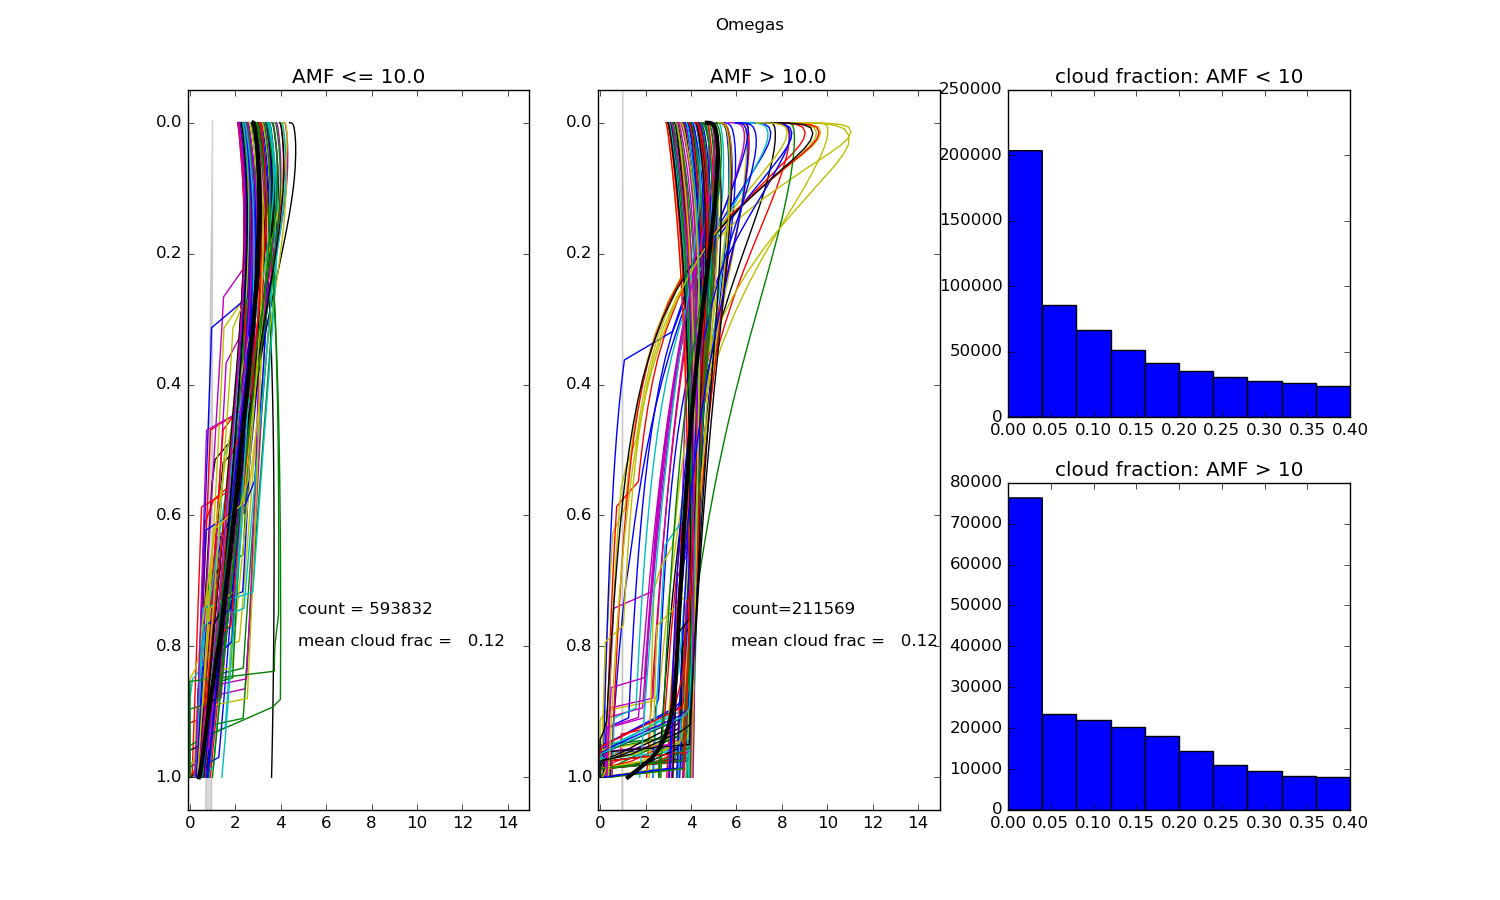
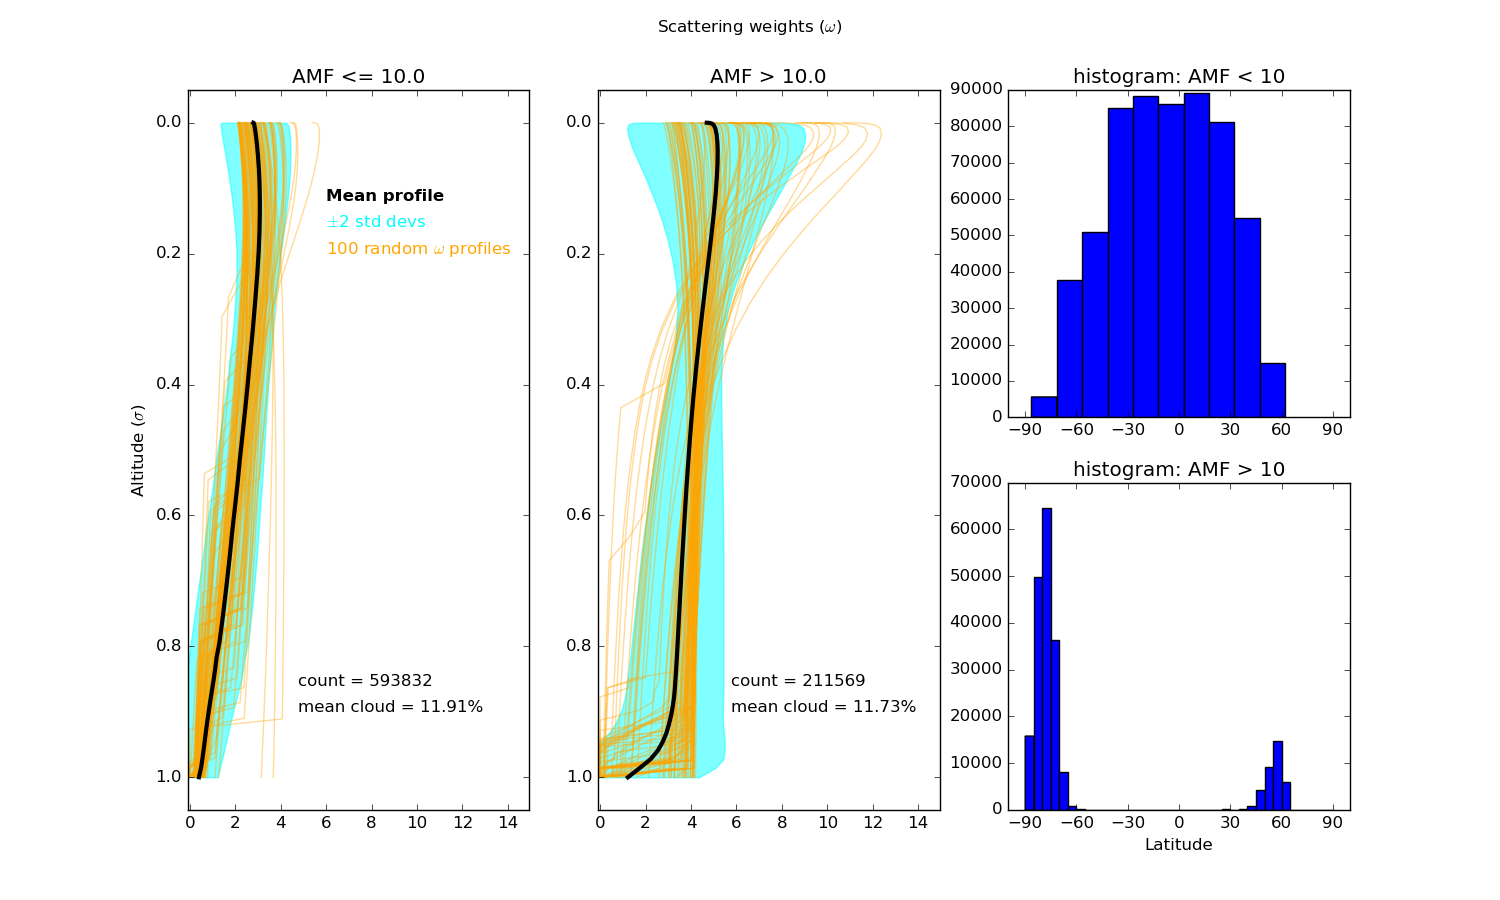
updated tests.py, added GC to VCC plot summary

diff --git a/tests.py b/tests.py
@@ -110,11 +110,10 @@ def check_array(array, nonzero=False):
 ######################       TESTS                  #########################
 #############################################################################
 
-def test_reprocess_corrected(run_reprocess=True, oneday=True):
+def test_reprocess_corrected(run_reprocess=False, oneday=True):
     '''
     Run and time reprocess method
     Plot some of the outputs
-    
     '''
     date=datetime(2005,1,1)
     
@@ -128,8 +127,6 @@ def test_reprocess_corrected(run_reprocess=True, oneday=True):
     
     # Grab one day of reprocessed OMI data
     omhchorp=fio.read_omhchorp(date,oneday=oneday)
-    # Grab monthly averaged GEOS-Chem data
-    # gc=fio.read_gchcho(date)
     
     counts = omhchorp['gridentries']
     print( "at most %d entries "%np.nanmax(counts) )
@@ -141,28 +138,39 @@ def test_reprocess_corrected(run_reprocess=True, oneday=True):
     # Plot 
     # SC, VC_omi, AMF_omi
     # VCC, VC_gc, AMF_gc
-    # 
-    f, axes = plt.subplots(2,3,num=0,figsize=(16,14))
+    # GEOS-Chem month average map
+    #
+    f = plt.figure(num=0,figsize=(16,16))
+    axes=[f.add_subplot(3,3,j) for j in range(1,7)]
     # Plot OMI, old, new AMF map
     # set currently active axis from [2,3] axes array
-    plt.sca(axes[0,0])
+    plt.sca(axes[0])
     m,cs,cb = createmap(omhchorp['SC'],lats,lons)
     plt.title('SC')
-    plt.sca(axes[0,1])
+    plt.sca(axes[1])
     m,cs,cb = createmap(omhchorp['VC_OMI'],lats,lons)
     plt.title('VC OMI')
-    plt.sca(axes[0,2])
+    plt.sca(axes[2])
     m,cs,cb = linearmap(omhchorp['AMF_OMI'],lats,lons,vmin=1.0,vmax=6.0)
     plt.title('AMF OMI')
-    plt.sca(axes[1,0])
+    plt.sca(axes[3])
     m,cs,cb = createmap(omhchorp['VCC'],lats,lons)
     plt.title('VCC')
-    plt.sca(axes[1,1])
+    plt.sca(axes[4])
     m,cs,cb = createmap(omhchorp['VC_GC'],lats,lons)
     plt.title('VC GC')
-    plt.sca(axes[1,2])
+    plt.sca(axes[5])
     m,cs,cb = linearmap(omhchorp['AMF_GC'],lats,lons,vmin=1.0,vmax=6.0)
     plt.title('AMF_GC')
+    
+    # Plot finally the GEOS-Chem map 
+    gc=fio.read_gchcho(date) # read the GC data
+    glons,glats=np.meshgrid(gc.lons,gc.lats)
+    ax=f.add_subplot(3,1,3) # make 3rd row the plot axis
+    plt.sca(ax)
+    
+    m,cs,cb = createmap(gc.VC_HCHO*1e-4, glats,glons, llcrnrlat=-60, urcrnrlat=60, llcrnrlon=-179, urcrnrlon=179)
+    plt.title('GEOS-Chem $\Omega_{HCHO}$')
     
     # save plots
     plt.tight_layout()
@@ -713,14 +721,15 @@ def check_high_amfs(day=datetime(2005,1,1)):
     elapsed = timeit.default_timer() - start_time
     print ("Took %6.2f seconds to read %d entries"%(elapsed, len(pix['AMF_OMI'])))
     
-    cloud=np.array(pix['cloudfrac'])  # [~1e6]
+    cloud=np.array(pix['cloudfrac'])    # [~1e6]
+    lat=np.array(pix['lat'])            #
     # inds2 = high amf, cloud < 0.4
     inds2= (np.array(pix['AMF_GC']) > 10.0) * (cloud < 0.4)
     # inds1 = non high amf, cloud < 0.4
     inds1= (~inds2) * (cloud < 0.4)
-    omegas=pix['omega']     # [47, ~1e6]
-    aprioris=pix['apriori'] #
-    sigmas=pix['sigma']     #
+    omegas=pix['omega']         # [47, ~1e6]
+    aprioris=pix['apriori']     #
+    sigmas=pix['sigma']         #
     
     assert np.sum(np.abs(pix['qualityflag']))==0, 'qualityflags non zero!'
     assert np.sum(np.abs(pix['xtrackflag']))==0, 'xtrackflags non zero!'
@@ -729,51 +738,60 @@ def check_high_amfs(day=datetime(2005,1,1)):
     omegas1=omegas[:,inds1]
     n1=len(omegas1[0,:])
     sigmas1=pix['sigma'][:,inds1]
+    # cloud seems fine, check relation to latitude
     cloud1=cloud[inds1]
+    lat1=lat[inds1]
     # high AMFS
     omegas2=omegas[:,inds2]
     n2=len(omegas2[0,:])
     sigmas2=pix['sigma'][:,inds2]
     cloud2=cloud[inds2]
+    lat2=lat[inds2]
     f = plt.figure(figsize=(15,9))
     a1 = f.add_subplot(1, 3, 1)
     a2 = f.add_subplot(1, 3, 2, sharex = a1, sharey=a1)
     a3 = f.add_subplot(2, 3, 3)
-    a4 = f.add_subplot(2, 3, 6)
+    a4 = f.add_subplot(2, 3, 6, sharex = a3)
     plt.sca(a1)
     # plot random set of 100 normal omegas
     for i in random.sample(range(n1),100):
-        plt.plot(omegas1[:,i],sigmas1[:,i])
+        plt.plot(omegas1[:,i],sigmas1[:,i],alpha=0.4,color='orange')
     # plot mean omega
     X,Y = np.mean(omegas1, axis=1), np.mean(sigmas1,axis=1)
-    Xl,Xr = X-np.std(omegas1,axis=1),X+np.std(omegas1,axis=1)
+    Xl,Xr = X-2*np.std(omegas1,axis=1),X+2*np.std(omegas1,axis=1)
     plt.plot(X,Y, linewidth=3, color='k')
-    plt.fill_betweenx(Y, Xl, Xr, alpha=0.3, color='grey')
-    plt.text(4.75,.8, 'mean cloud frac = %6.2f'%np.mean(cloud1))
-    plt.text(4.75,.75, 'count = %d'%n1)
+    plt.fill_betweenx(Y, Xl, Xr, alpha=0.5, color='cyan')
+    plt.text(4.75,.9, 'mean cloud =%6.2f%%'%(np.mean(cloud1)*100.))
+    plt.text(4.75,.86, 'count = %d'%n1)
+    plt.text(6, 0.12, 'Mean profile',fontweight='bold')
+    plt.text(6, 0.16, '$\pm$2 std devs', color='cyan')
+    plt.text(6, 0.20, '100 random $\omega$ profiles', color='orange')
     plt.title('AMF <= 10.0')
+    plt.ylabel('Altitude ($\sigma$)')
     plt.sca(a2)
     #plot 100 highamf omegas
     for i in random.sample(range(n2),100):
-        plt.plot(omegas2[:,i],sigmas2[:,i])
+        plt.plot(omegas2[:,i],sigmas2[:,i],alpha=0.4,color='orange')
     # plot mean omega
     X,Y = np.mean(omegas2, axis=1), np.mean(sigmas2,axis=1)
-    Xl,Xr = X-np.std(omegas2,axis=1),X+np.std(omegas2,axis=1)
+    Xl,Xr = X-2*np.std(omegas2,axis=1),X+2*np.std(omegas2,axis=1)
     plt.plot(X,Y, linewidth=3, color='k')
-    plt.fill_betweenx(Y, Xl, Xr, alpha=0.3, color='grey')
-    plt.text(5.75,.8, 'mean cloud frac = %6.2f'%np.mean(cloud2))
-    plt.text(5.75,.75, 'count=%d'%n2)
+    plt.fill_betweenx(Y, Xl, Xr, alpha=0.5, color='cyan')
+    plt.text(5.75,.9, 'mean cloud =%6.2f%%'%(np.mean(cloud2)*100.))
+    plt.text(5.75,.86, 'count = %d'%n2)
     plt.title('AMF > 10.0')
     plt.ylim([1.05,-0.05])
     plt.xlim([-0.1, np.max(omegas2)])
     # plot cloud frac histogram
     plt.sca(a3)
-    plt.hist(cloud1)
-    plt.title('cloud fraction: AMF < 10')
+    plt.hist(lat1)
+    plt.title('histogram: AMF < 10')
     plt.sca(a4)
-    plt.hist(cloud2)
-    plt.title('cloud fraction: AMF > 10')
-    plt.suptitle('Omegas')
+    plt.hist(lat2, bins=np.arange(-90,91,5))
+    plt.title('histogram: AMF > 10')
+    plt.setp(a3, xticks=np.arange(-90,91,30)) # set xticks for histograms
+    plt.xlabel('Latitude')
+    plt.suptitle('Scattering weights ($\omega$)')
     outpic='pictures/high_AMF_omegas.png'
     plt.savefig(outpic)
     print('saved %s'%outpic)
@@ -938,7 +956,9 @@ if __name__ == '__main__':
     #test_fires_fio()
     #test_amf_calculation() # Check the AMF stuff
     #check_flags_and_entries() # check how many entries are filtered etc...
-    check_high_amfs()
+    for oneday in [True, False]:
+        test_reprocess_corrected(run_reprocess=False, oneday=oneday)
+    #check_high_amfs()
     
     #test_hchorp_apriori()
     #test_gchcho()
@@ -951,5 +971,4 @@ if __name__ == '__main__':
     
     # Plot SC, VC_omi, VC_gc, AMF_omi, AMF_gc from
     # one or eight day average reprocessed netcdf output
-    #test_reprocess_corrected(run_reprocess=False, oneday=False);
     #check_RSC(track_corrections=True)

diff --git a/classes.py b/classes.py
@@ -102,22 +102,28 @@ class gchcho:
         sigma=self.sigmas[:,latind,lonind]
         return(shape,sigma)
     
-    def PlotVC(self, lllat=-65, urlat=65, lllon=-179, urlon=179, vmin=1e17, vmax=1e21):
+    def PlotVC(self, lllat=-65, urlat=65, lllon=-179, urlon=179, vmin=1e17, vmax=1e21, cm2=False):
         '''
         Basemap(...).pcolor of vertical column HCHO
         returns (map, image, colorbar)
         '''
         m=Basemap(llcrnrlat=lllat, urcrnrlat=urlat, llcrnrlon=lllon, urcrnrlon=urlon, resolution='i',projection='merc')
         mlons, mlats= np.meshgrid(self.lons,self.lats)
+        VC=self.VC_HCHO
+        label='Molecules m$^{-2}$'
+        if cm2:
+            VC = VC*1e-4
+            label='Molecules cm$^{-2}$'
+        cs=m.pcolor(mlons,mlats,VC,latlon=True, vmin=vmin,vmax=vmax,norm = LogNorm())
         
-        cs=m.pcolor(mlons,mlats,self.VC_HCHO,latlon=True, vmin=vmin,vmax=vmax,norm = LogNorm())
         # draw coastlines and equator
         m.drawcoastlines()
         m.drawparallels([0],labels=[0,0,0,0])
+        
         # add title, colorbar
-        plt.title('GEOS-Chem VC_HCHO (2x2.5)')
+        plt.title('GEOS-Chem $\Omega_{HCHO}$')
         cb=m.colorbar(cs,"bottom",size="5%", pad="2%")
-        cb.set_label('Molecules/m2')
+        cb.set_label(label)
         return (m,cs,cb)
 
     def PlotProfile(self, lat=-30,lon=140):
